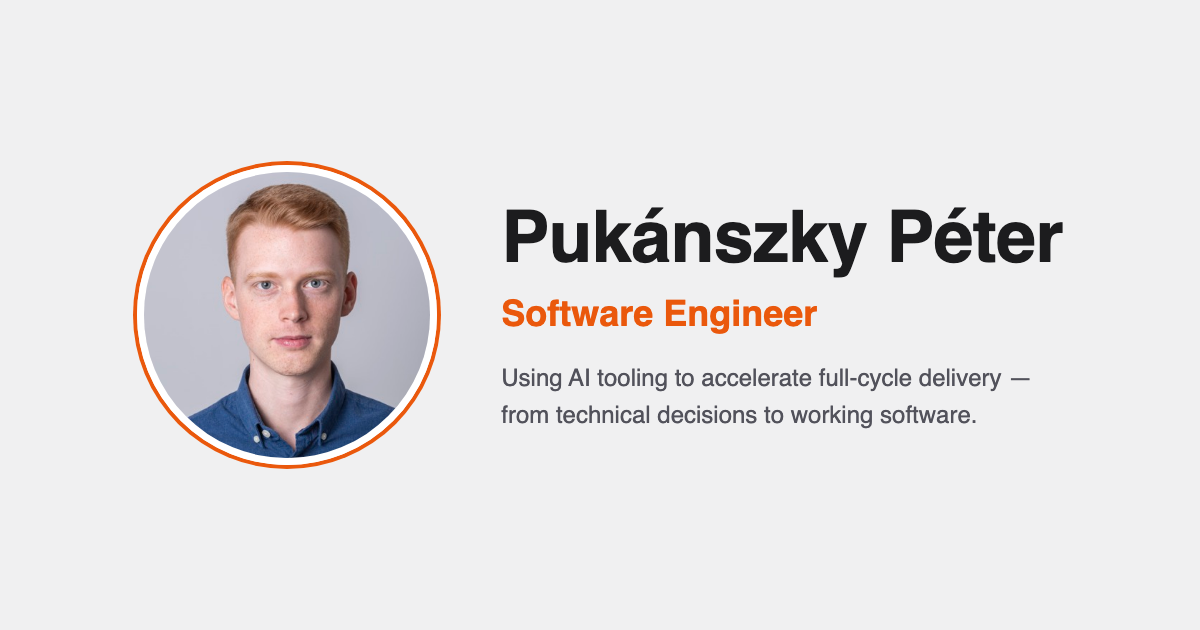
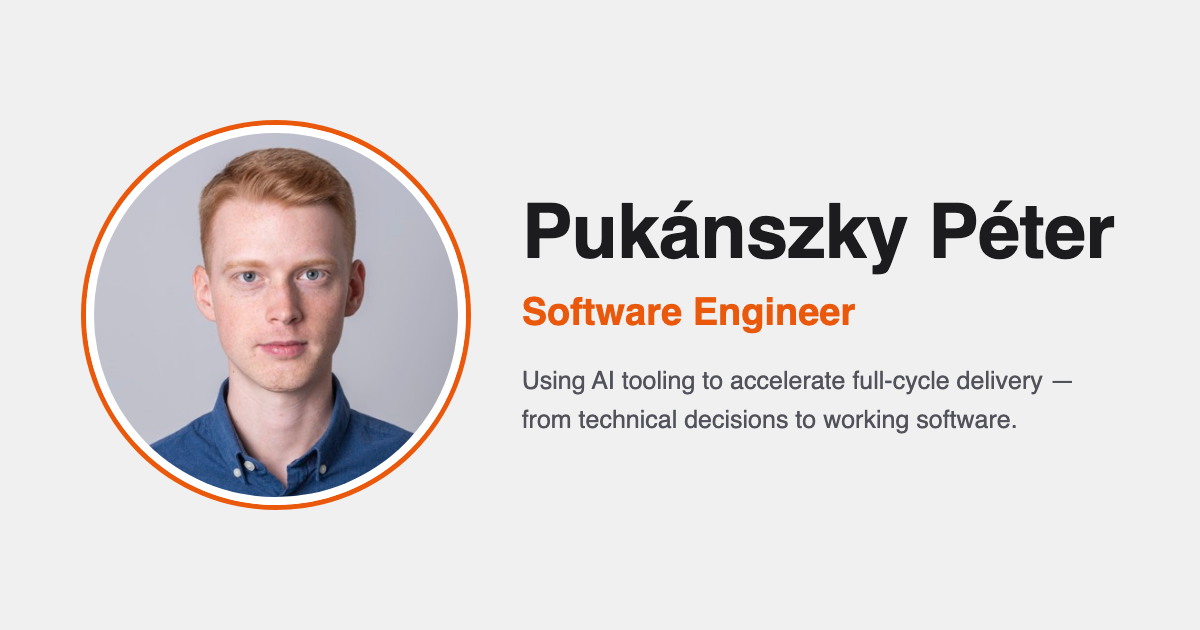
Reduce excess padding in the OG preview image
Enlarge the photo and text to better fill the 1200x630 frame instead
of sitting as a narrow centered band with heavy top/bottom padding.

Changed region(s): [[0.0617, 0.181, 0.925, 0.8143]]

diff --git a/cv-source/og-image.html b/cv-source/og-image.html
@@ -23,41 +23,43 @@
 	.card {
 		display: flex;
 		align-items: center;
-		gap: 64px;
-		padding: 0 90px;
+		gap: 56px;
+		padding: 0 70px;
 	}
 
 	.photo {
-		width: 300px;
-		height: 300px;
+		width: 380px;
+		height: 380px;
 		border-radius: 50%;
 		object-fit: cover;
 		object-position: center 15%;
-		border: 7px solid #ffffff;
-		box-shadow: 0 0 0 4px #ea580c;
+		border: 8px solid #ffffff;
+		box-shadow: 0 0 0 5px #ea580c;
 		flex-shrink: 0;
 	}
 
 	.text h1 {
 		margin: 0;
-		font-size: 72px;
+		font-size: 76px;
 		font-weight: 700;
 		color: #1c1c1e;
 		letter-spacing: -0.01em;
+		line-height: 1.1;
+		white-space: nowrap;
 	}
 
 	.text p.tagline {
-		margin: 14px 0 0;
-		font-size: 36px;
+		margin: 16px 0 0;
+		font-size: 38px;
 		font-weight: 600;
 		color: #ea580c;
 	}
 
 	.text p.blurb {
-		margin: 26px 0 0;
-		font-size: 24px;
+		margin: 28px 0 0;
+		font-size: 25px;
 		color: #52525b;
-		max-width: 560px;
+		max-width: 580px;
 		line-height: 1.55;
 	}
 </style>
